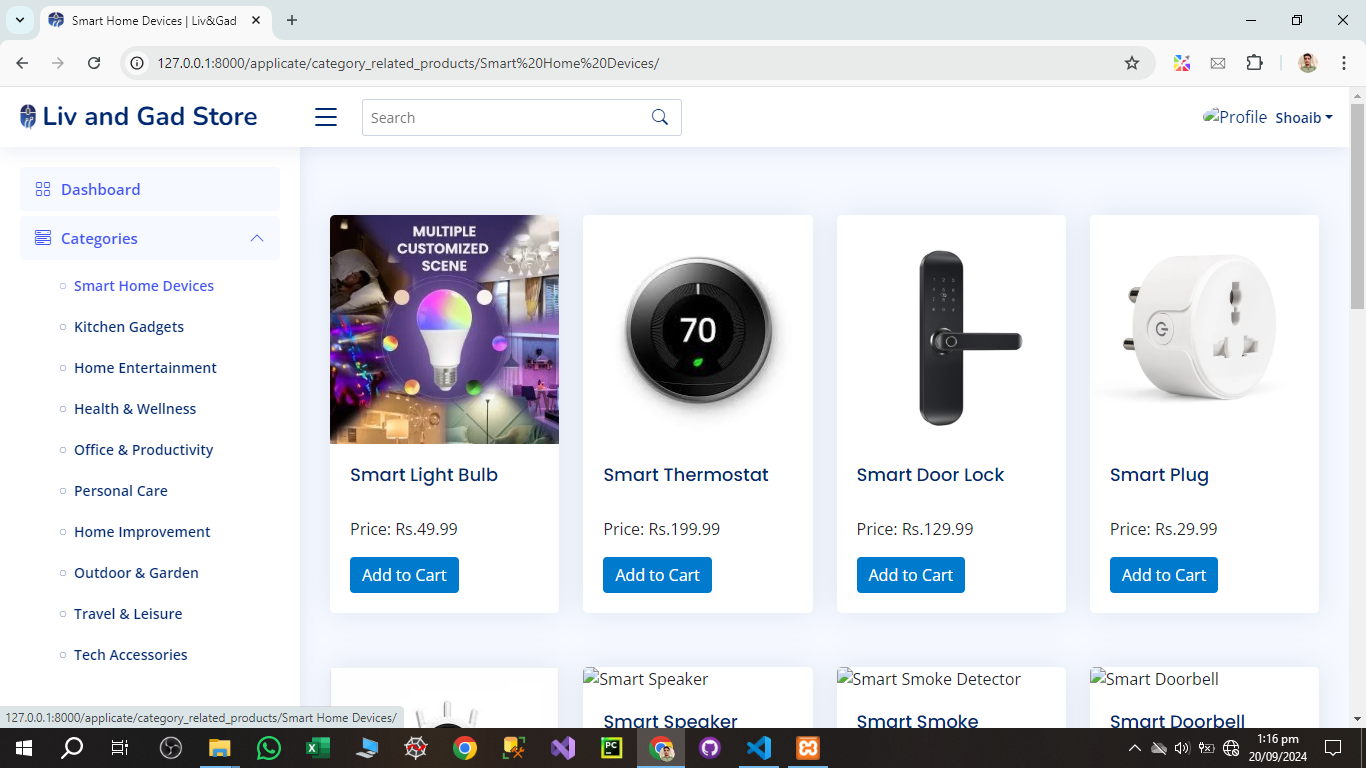
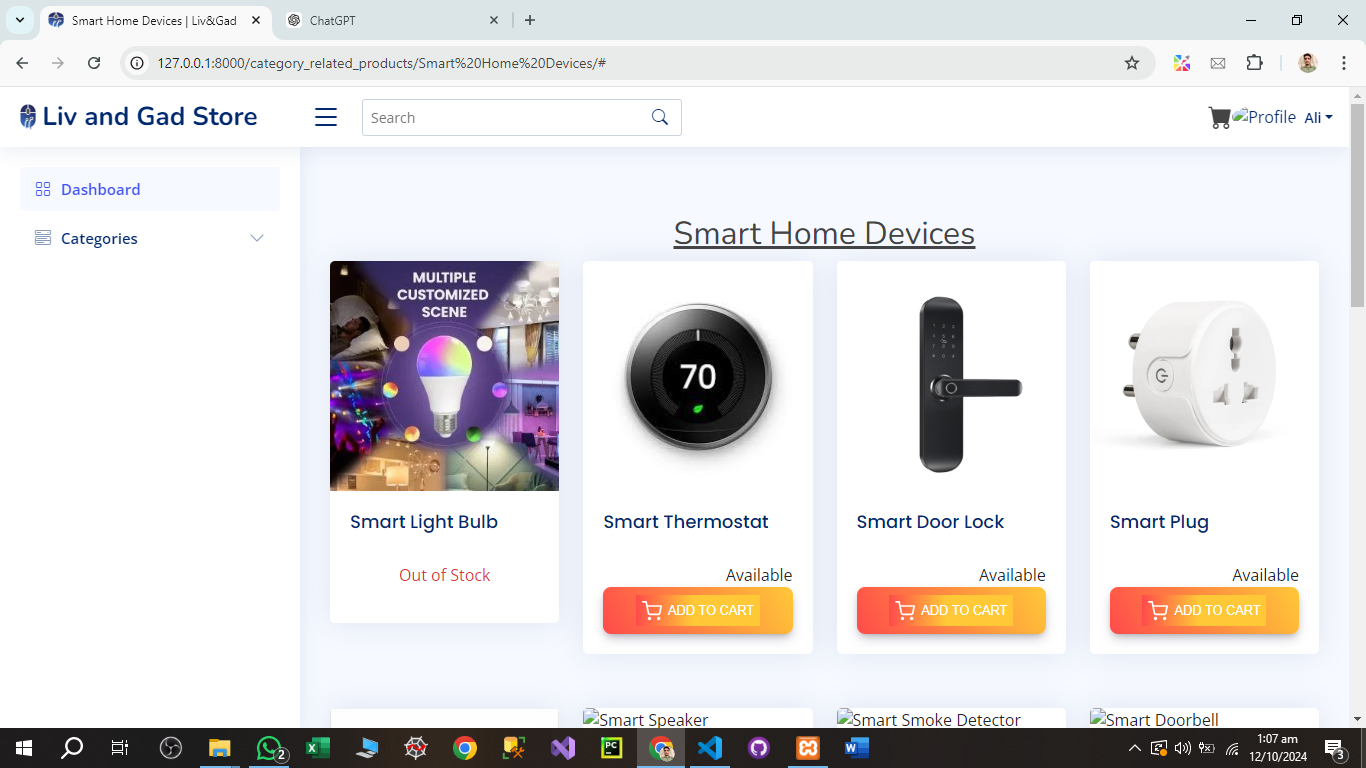
Updated category_related_products.html template.

diff --git a/myweb/myapp/templates/category_related_products.html b/myweb/myapp/templates/category_related_products.html
@@ -8,16 +8,11 @@
     <title>{{ category.name }} | Liv&Gad</title>
     <meta name="description" content="Category based products in Liv and Gad store">
     <meta name="author" content="Liv&Gad Store">
-    <link rel="stylesheet" href="https://cdn.jsdelivr.net/npm/bootstrap@4.0.0/dist/css/bootstrap.min.css"
-        integrity="sha384-Gn5384xqQ1aoWXA+058RXPxPg6fy4IWvTNh0E263XmFcJlSAwiGgFAW/dAiS6JXm" crossorigin="anonymous">
+    <link rel="stylesheet" href="https://cdn.jsdelivr.net/npm/bootstrap@4.0.0/dist/css/bootstrap.min.css" integrity="sha384-Gn5384xqQ1aoWXA+058RXPxPg6fy4IWvTNh0E263XmFcJlSAwiGgFAW/dAiS6JXm" crossorigin="anonymous">
     <link href="{% static 'images/logo1.png' %}" rel="icon">
     <link href="{% static 'assets/img/apple-touch-icon.png' %}" rel="apple-touch-icon">
-
     <link href="https://fonts.gstatic.com" rel="preconnect">
-    <link
-        href="https://fonts.googleapis.com/css?family=Open+Sans:300,300i,400,400i,600,600i,700,700i|Nunito:300,300i,400,400i,600,600i,700,700i|Poppins:300,300i,400,400i,500,500i,600,600i,700,700i"
-        rel="stylesheet">
-
+    <link href="https://fonts.googleapis.com/css?family=Open+Sans:300,300i,400,400i,600,600i,700,700i|Nunito:300,300i,400,400i,600,600i,700,700i|Poppins:300,300i,400,400i,500,500i,600,600i,700,700i" rel="stylesheet">
     <link href="{% static 'assets/vendor/bootstrap/css/bootstrap.min.css' %}" rel="stylesheet">
     <link href="{% static 'assets/vendor/bootstrap-icons/bootstrap-icons.css' %}" rel="stylesheet">
     <link href="{% static 'assets/vendor/boxicons/css/boxicons.min.css' %}" rel="stylesheet">
@@ -25,7 +20,6 @@
     <link href="{% static 'assets/vendor/quill/quill.bubble.css' %}" rel="stylesheet">
     <link href="{% static 'assets/vendor/remixicon/remixicon.css' %}" rel="stylesheet">
     <link href="{% static 'assets/vendor/simple-datatables/style.css' %}" rel="stylesheet">
-
     <link href="{% static 'assets/css/style.css' %}" rel="stylesheet">
     {% if messages %}
     {% for message in messages %}
@@ -35,63 +29,54 @@
     {% endfor %}
     {% endif %}
     <style>
-        button {
-            position: relative;
-            overflow: hidden;
-            outline: none;
-            cursor: pointer;
-            border-radius: 0px;
-            border: none;
-            background-color: hsl(255deg 50% 40%);
-            box-shadow: rgba(50, 50, 93, 0.25) 0px 6px 12px -2px,
-                rgba(0, 0, 0, 0.3) 0px 3px 7px -3px;
-            font-family: "Inter", sans-serif;
-        }
-
-        .default-btn {
-            background-image: linear-gradient(90.1deg,
-                    rgba(84, 212, 228, 1) 0.2%,
-                    rgba(68, 36, 164, 1) 99.9%);
-        }
+        .button {
+    position: relative;
+    overflow: hidden;
+    outline: none;
+    cursor: pointer;
+    border-radius: 0.5rem;
+    border: none;
+    background: linear-gradient(63deg, rgba(255, 75, 75, 1) 0%, rgba(255, 200, 55, 1) 100%);
+    box-shadow: rgba(50, 50, 93, 0.25) 0px 6px 12px -2px, rgba(0, 0, 0, 0.3) 0px 3px 7px -3px;
+    font-family: "Inter", sans-serif;
+    font-size: 0.8rem;
+    display: flex;
+    align-items: center;
+    justify-content: center;
+    width: 100%;
+    max-width: 300px;
+    padding: 0.6em;
+}
 
         .default-btn,
         .hover-btn {
-            display: -webkit-box;
-            display: -moz-box;
-            display: -ms-flexbox;
-            display: -webkit-flex;
             display: flex;
             align-items: center;
-            gap: 15px;
-            padding: 1em 3em;
-            border-radius: 0px;
-            font-size: 14px;
-            font-weight: 500;
+            justify-content: center;
+            gap: 0.5em;
+            padding: 0.45em;
+            border-radius: 0;
+            font-size: 0.8rem;
+            font-weight: 300;
+            font-family: "Inter", sans-serif;
             text-transform: uppercase;
-            transition: all 0.3s ease;
+            transition: all 0.4s ease;
+        }
+
+        .default-btn {
+            background-image: linear-gradient(90.1deg, rgba(255, 75, 75, 1) 0%, rgba(255, 200, 55, 1) 45.9%);
         }
 
         .hover-btn {
             position: absolute;
             inset: 0;
-            font-size: 16px;
-            padding: 1em 3em;
-            text-align: center;
-            background: rgb(26, 35, 126);
-            background: linear-gradient(63deg,
-                    rgba(26, 35, 126, 1) 0%,
-                    rgba(69, 39, 160, 1) 100%);
-            box-shadow: rgba(50, 50, 93, 0.25) 0px 6px 12px -2px,
-                rgba(0, 0, 0, 0.3) 0px 3px 7px -3px;
+            font-size: 1rem;
+            background: linear-gradient(63deg, rgba(255, 75, 75, 1) 0%, rgba(255, 200, 55, 1) 100%);
+            box-shadow: rgba(50, 50, 93, 0.25) 0px 6px 12px -2px, rgba(0, 0, 0, 0.3) 0px 3px 7px -3px;
             transform: translate(0%, 100%);
-        }
-
-        .default-btn span {
-            color: hsl(0, 0%, 100%);
-        }
-
-        .hover-btn span {
-            color: hsl(0, 0%, 100%);
+            text-align: center;
+            width: 100%;
+            /* Button scales with content */
         }
 
         button:hover .default-btn {
@@ -100,6 +85,11 @@
 
         button:hover .hover-btn {
             transform: translate(0%, 0%);
+        }
+
+        .default-btn span,
+        .hover-btn span {
+            color: white;
         }
 
         .btn-primary {
@@ -222,11 +212,12 @@
                         <div class="card-body">
                             <h5 class="card-title">{{ product.name }}</h5>
                             <p class="card-text">{{ product.description }}</p>
+
+                            {% if product.status == 'Available' %}
                             <div class="card-text" style="float: right;">
                                 <p class="card-text">{{ product.status }}</p>
                             </div>
-                            {% if product.status == 'Available' %}
-                            <button>
+                            <button class="button">
                                 <a href="{% url 'add_to_cart' product.id %}">
                                     <div class="default-btn">
                                         <svg viewBox="0 0 24 24" width="20" height="20" stroke="#ffffff"
@@ -252,30 +243,7 @@
                             </button>
                             {% endif %}
                             {% if product.status == 'Out of Stock' %}
-                            <button>
-                                <a href="#" class="btn btn-primary disabled">
-                                    <div class="default-btn">
-                                        <svg viewBox="0 0 24 24" width="20" height="20" stroke="#ffffff"
-                                            stroke-width="2" fill="none" stroke-linecap="round" stroke-linejoin="round"
-                                            class="cart-icon">
-                                            <circle cx="9" cy="21" r="1"></circle>
-                                            <circle cx="20" cy="21" r="1"></circle>
-                                            <path d="M1 1h4l2.68 13.39a2 2 0 0 0 2 1.61h9.72a2 2 0 0 0 2-1.61L23 6H6">
-                                            </path>
-                                        </svg>
-                                        <span>Add to Cart</span>
-                                    </div>
-                                    <div class="hover-btn">
-                                        <svg viewBox="0 0 320 512" width="12.5" height="20"
-                                            xmlns="http://www.w3.org/2000/svg">
-                                            <path
-                                                d="M160 0c17.7 0 32 14.3 32 32V67.7c1.6 .2 3.1 .4 4.7 .7c.4 .1 .7 .1 1.1 .2l48 8.8c17.4 3.2 28.9 19.9 25.7 37.2s-19.9 28.9-37.2 25.7l-47.5-8.7c-31.3-4.6-58.9-1.5-78.3 6.2s-27.2 18.3-29 28.1c-2 10.7-.5 16.7 1.2 20.4c1.8 3.9 5.5 8.3 12.8 13.2c16.3 10.7 41.3 17.7 73.7 26.3l2.9 .8c28.6 7.6 63.6 16.8 89.6 33.8c14.2 9.3 27.6 21.9 35.9 39.5c8.5 17.9 10.3 37.9 6.4 59.2c-6.9 38-33.1 63.4-65.6 76.7c-13.7 5.6-28.6 9.2-44.4 11V480c0 17.7-14.3 32-32 32s-32-14.3-32-32V445.1c-.4-.1-.9-.1-1.3-.2l-.2 0 0 0c-24.4-3.8-64.5-14.3-91.5-26.3c-16.1-7.2-23.4-26.1-16.2-42.2s26.1-23.4 42.2-16.2c20.9 9.3 55.3 18.5 75.2 21.6c31.9 4.7 58.2 2 76-5.3c16.9-6.9 24.6-16.9 26.8-28.9c1.9-10.6 .4-16.7-1.3-20.4c-1.9-4-5.6-8.4-13-13.3c-16.4-10.7-41.5-17.7-74-26.3l-2.8-.7 0 0C119.4 279.3 84.4 270 58.4 253c-14.2-9.3-27.5-22-35.8-39.6c-8.4-17.9-10.1-37.9-6.1-59.2C23.7 116 52.3 91.2 84.8 78.3c13.3-5.3 27.9-8.9 43.2-11V32c0-17.7 14.3-32 32-32z"
-                                                fill="#ffffff"></path>
-                                        </svg>
-                                        <span>Rs.{{ product.price }}</span>
-                                    </div>
-                                </a>
-                            </button>
+                            <p class="text-danger" style="text-align: center;">Out of Stock</p>
                             {% endif %}
 
                         </div>
